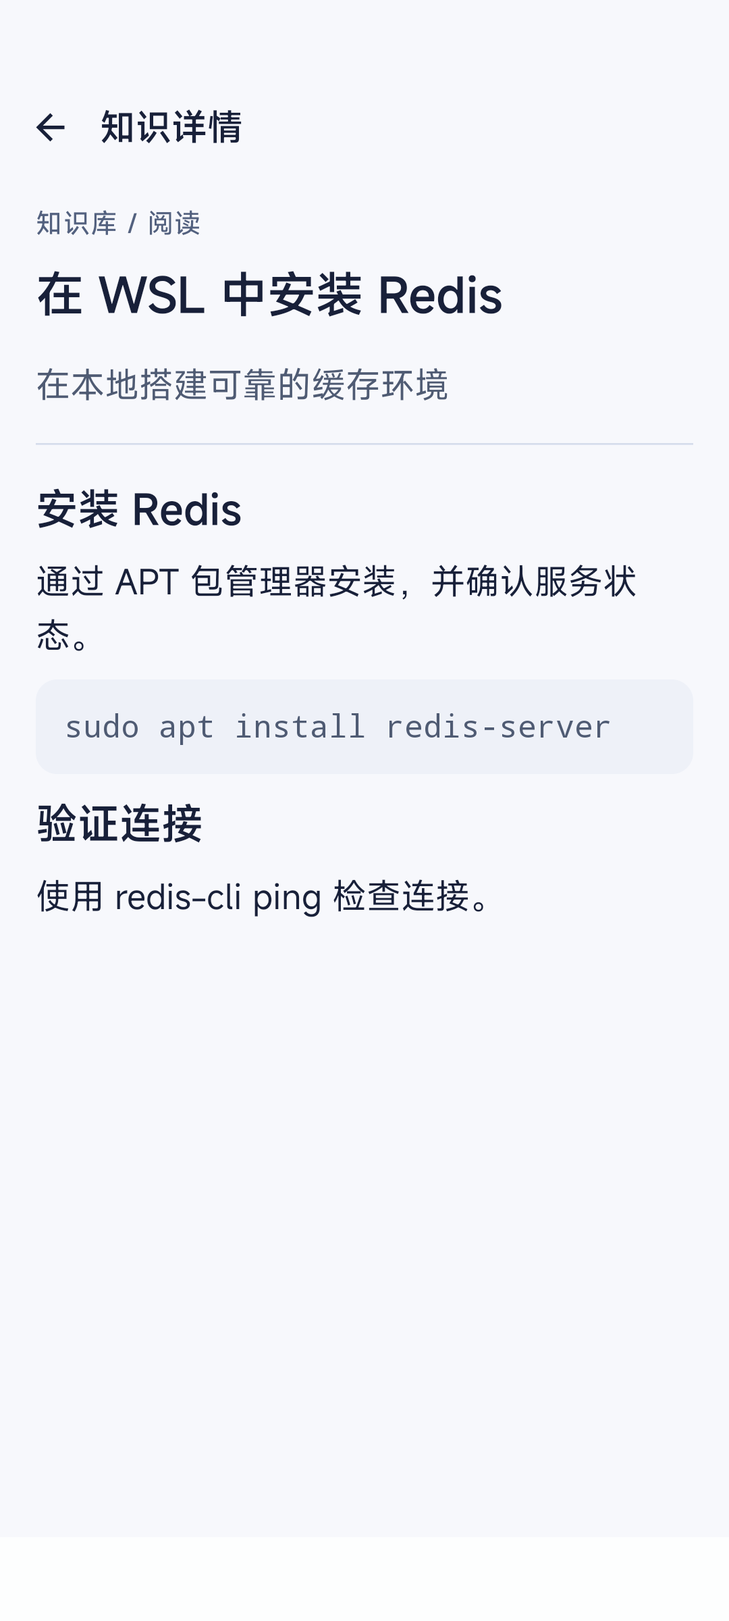
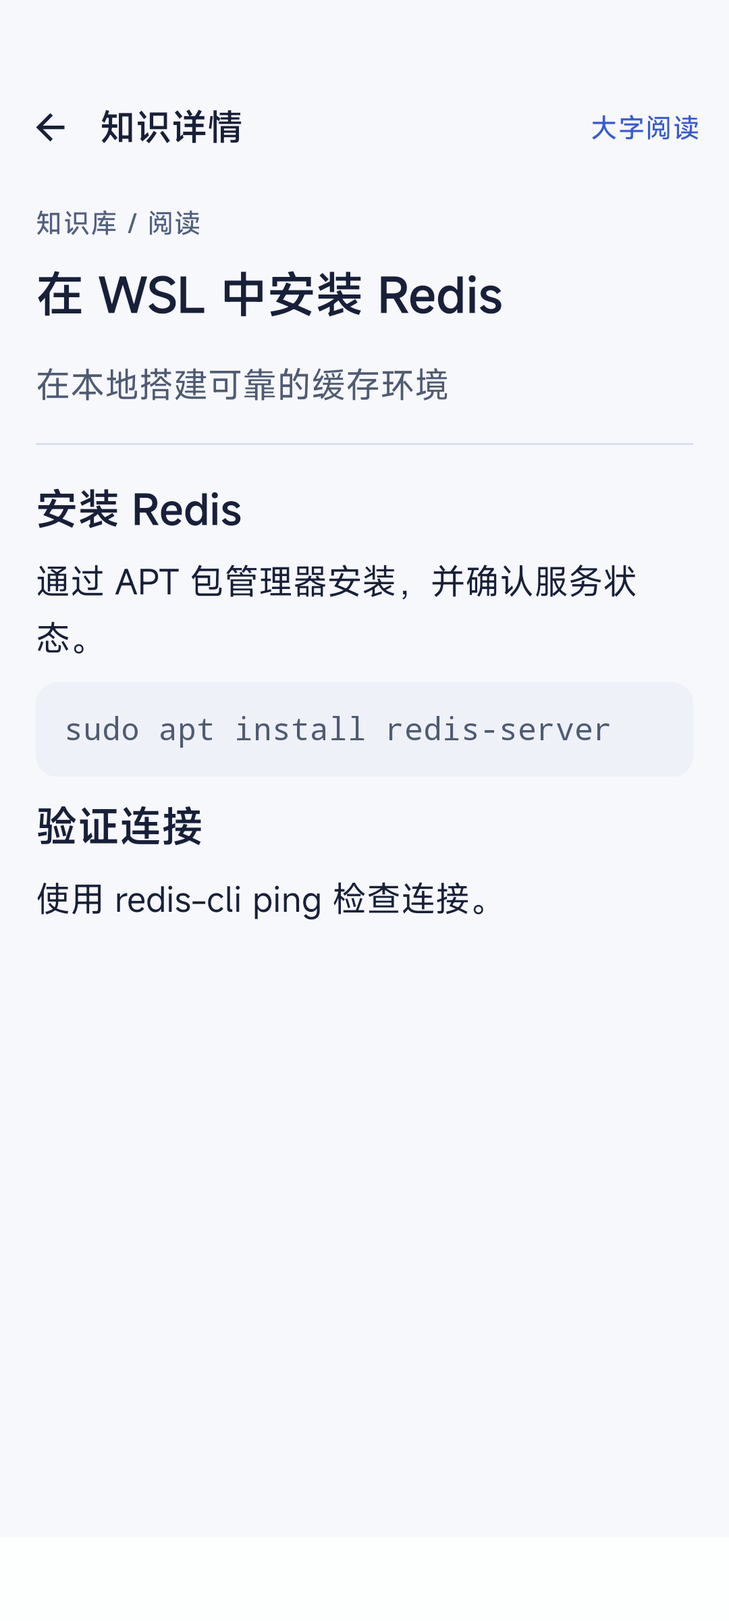
fix:修复了Android端的一些问题

diff --git a/android/artifacts/ux-review/index.html b/android/artifacts/ux-review/index.html
@@ -1,0 +1,1 @@
+<!doctype html><html lang="zh-CN"><meta charset="utf-8"><meta name="viewport" content="width=device-width,initial-scale=1"><title>SecondBrain · Android 体验验收</title><style>*{box-sizing:border-box}body{margin:0;background:#f7f8fc;color:#182039;font-family:system-ui,"Microsoft YaHei",sans-serif}main{max-width:1320px;margin:auto;padding:48px 24px}header{border-bottom:1px solid #d5dceb;padding-bottom:28px;margin-bottom:32px}small{color:#395bce;letter-spacing:.12em}h1{font-size:36px;margin:12px 0;font-weight:650}p{line-height:1.8;color:#53617f}.grid{display:grid;grid-template-columns:repeat(3,minmax(0,1fr));gap:32px}figure{margin:0}img{width:100%;height:auto;border:1px solid #d5dceb;border-radius:16px;background:white}h2{font-size:18px;margin:12px 0 4px}figcaption{color:#53617f;font-size:14px;line-height:1.6;margin-bottom:20px}a{color:#395bce}footer{margin-top:40px;border-top:1px solid #d5dceb;padding-top:24px}@media(max-width:760px){.grid{grid-template-columns:1fr 1fr}main{padding:24px 16px}h1{font-size:28px}}@media(max-width:460px){.grid{grid-template-columns:1fr}}</style><main><header><small>SECONDBRAIN / ANDROID</small><h1>让知识更容易阅读与使用</h1><p>原生 Android 实机截图。首页与知识列表为实际应用数据，其余截图来自隔离设备测试；不会向真实社区发送测试回答。</p></header><section class="grid"><figure><a href="today.png"><img src="today.png" alt="今日页面，顶部可切换工作区，提供复习入口"></a><h2>今日 · 明确的学习入口</h2><figcaption>当前空间始终可见，从指定卡片开始复习。</figcaption></figure><figure><a href="knowledge-list.png"><img src="knowledge-list.png" alt="知识列表与搜索"></a><h2>知识库 · 查得到，也读得完</h2><figcaption>关键词搜索、真实总数、分页与详情阅读。</figcaption></figure><figure><a href="knowledge-detail.png"><img src="knowledge-detail.png" alt="知识详情正文和代码块"></a><h2>阅读 · 正文优先</h2><figcaption>标题、摘要、正文、代码块分层，支持大字阅读。</figcaption></figure><figure><a href="share-detail.png"><img src="share-detail.png" alt="分享详情包含作者、正文和讨论"></a><h2>分享 · 内容与讨论衔接</h2><figcaption>作者、分享理由、知识正文与轻量互动。</figcaption></figure><figure><a href="question-published.png"><img src="question-published.png" alt="发布成功后的回答详情"></a><h2>问答 · 发布有明确结果</h2><figcaption>失败保留输入，成功原地显示，重新进入仍可查看。</figcaption></figure><figure><a href="review-feedback.png"><img src="review-feedback.png" alt="提交后显示答案解析"></a><h2>复习 · 先作答，再理解</h2><figcaption>提交后出现判题与解析，主动进入下一题。</figcaption></figure></section><footer><a href="device-tests.txt">设备测试原始输出</a><p>设计依据与验证范围记录在 docs/requirements/prd-native-android-app.md。Debug 包沿用项目现有局域网接口配置。</p></footer></main></html>

diff --git a/android/app/src/main/java/com/secondbrain/android/ui/QuestionScreen.kt b/android/app/src/main/java/com/secondbrain/android/ui/QuestionScreen.kt
@@ -8,6 +8,7 @@ import androidx.compose.material3.*
 import androidx.compose.runtime.*
 import androidx.compose.ui.Modifier
 import androidx.compose.ui.platform.LocalSoftwareKeyboardController
+import androidx.compose.ui.platform.testTag
 import androidx.compose.ui.unit.dp
 
 @Composable
@@ -20,7 +21,7 @@ internal fun QuestionScreen(id: Long, onBack: () -> Unit, viewModel: QuestionVie
         if (state.published) { keyboard?.hide(); onPublished() }
     }
     ReadingScaffold("问答 · 讨论详情", onBack) { padding ->
-        LazyColumn(Modifier.fillMaxSize().padding(padding).imePadding(), state = listState,
+        LazyColumn(Modifier.fillMaxSize().padding(padding).imePadding().testTag("question-content"), state = listState,
             contentPadding = PaddingValues(20.dp, 12.dp, 20.dp, 32.dp), verticalArrangement = Arrangement.spacedBy(20.dp)) {
             if (state.loading) item { LoadingContent("正在读取问题…") }
             state.question?.let { question ->
@@ -50,18 +51,18 @@ internal fun QuestionScreen(id: Long, onBack: () -> Unit, viewModel: QuestionVie
                         placeholder = { Text("写下思路、解释或具体例子…") }, minLines = 4, maxLines = 10,
                         supportingText = { Text("${state.draft.trim().length} / 10000 · 至少 10 个字") },
                         modifier = Modifier.fillMaxWidth().padding(top = 12.dp))
-                    Button(onClick = viewModel::submit, enabled = !state.submitting && !state.loading && state.draft.trim().length in 10..10000,
+                    state.error?.let { Text(it, color = MaterialTheme.colorScheme.error, modifier = Modifier.padding(bottom = 12.dp)) }
+                    Button(onClick = { keyboard?.hide(); viewModel.submit() }, enabled = !state.submitting && !state.loading && state.draft.trim().length in 10..10000,
                         modifier = Modifier.fillMaxWidth().heightIn(min = 48.dp)) {
                         Text(if (state.submitting) "正在发布…" else "发布回答")
                     }
                     if (state.published) Text("回答已发布，可在上方查看", color = MaterialTheme.colorScheme.primary, modifier = Modifier.padding(top = 12.dp))
                 }
             }
-            state.error?.let { message -> item {
-                Text(message, color = MaterialTheme.colorScheme.error)
-                if (state.question == null) OutlinedButton(onClick = { viewModel.load(id) }) { Text("重新加载") }
-                else Text("内容已保留。发布遇到网络中断时，可先重新进入确认是否已发布。", style = MaterialTheme.typography.bodyMedium)
+            if (state.question == null) state.error?.let { message -> item {
+                RetryContent(message) { viewModel.load(id) }
             } }
+
         }
     }
 }

diff --git a/android/app/src/androidTest/java/com/secondbrain/android/ui/MobileFlowsTest.kt b/android/app/src/androidTest/java/com/secondbrain/android/ui/MobileFlowsTest.kt
@@ -206,15 +206,22 @@ class MobileFlowsTest {
         } }
         compose.onNode(hasSetTextAction()).performScrollTo().performTextInput("先明确共享资源的边界，再选择锁的粒度。")
         compose.onNodeWithText("发布回答").performScrollTo().performClick()
-        compose.onNodeWithText("连接失败，草稿已保留").performScrollTo().assertIsDisplayed()
+        compose.waitUntil(5_000) { vm.state.value.error != null }
+        assertEquals(1, attempts)
+        compose.onNodeWithTag("question-content").performScrollToNode(hasText("连接失败，草稿已保留"))
+        compose.onNodeWithText("连接失败，草稿已保留").assertIsDisplayed()
         assertTrue(vm.state.value.draft.isNotBlank())
         compose.onNodeWithText("发布回答").performScrollTo().performClick()
-        compose.onNodeWithText("回答已发布，可在上方查看").performScrollTo().assertIsDisplayed()
-        compose.onNodeWithText("先明确共享资源的边界，再选择锁的粒度。").performScrollTo().assertIsDisplayed()
+        compose.waitUntil(5_000) { vm.state.value.published }
+        compose.onNodeWithTag("question-content").performScrollToNode(hasText("回答已发布，可在上方查看"))
+        compose.onNodeWithText("回答已发布，可在上方查看").assertIsDisplayed()
+        compose.onNodeWithTag("question-content").performScrollToNode(hasText("先明确共享资源的边界，再选择锁的粒度。"))
+        compose.onNodeWithText("先明确共享资源的边界，再选择锁的粒度。").assertIsDisplayed()
         snapshot("question-published")
         compose.onNodeWithContentDescription("返回").performClick()
         compose.onNodeWithText("重新进入").performClick()
-        compose.onNodeWithText("先明确共享资源的边界，再选择锁的粒度。").performScrollTo().assertIsDisplayed()
+        compose.onNodeWithTag("question-content").performScrollToNode(hasText("先明确共享资源的边界，再选择锁的粒度。"))
+        compose.onNodeWithText("先明确共享资源的边界，再选择锁的粒度。").assertIsDisplayed()
         assertEquals(2, attempts)
         assertEquals(1, vm.state.value.question?.answerCount)
     }

diff --git a/docs/requirements/prd-native-android-app.md b/docs/requirements/prd-native-android-app.md
@@ -1,0 +1,168 @@
+# AI-SecondBrain 原生 Android 应用
+
+## 状态
+
+进行中，首个交付是独立的 Kotlin / Jetpack Compose 工程，位于 `android/`。它与现有 uni-app 共用后端、账号和工作区数据，但不共用 UI 代码。
+
+## 已确认范围
+
+- Android 8.0+，Material 3、固定墨绿/纸张白/铜棕品牌主题，提供独立深色方案。
+- 底部四栏：今日、知识、社区、我的；全局采集入口。
+- 登录、工作区、知识、RAG、复习、广场、问答、社区资料与成长数据只读取和写入既有服务端 API，不制造演示数据。
+- 采集使用本地 CameraX / 相册与 ML Kit 中文、拉丁 OCR。只有用户编辑、选择工作区并确认后，才调用 `POST /knowledge`；图片不会自动上传或自动入库。
+- 本地仅保留可恢复草稿、最近知识摘要和未提交复习答案。当前登录态保存在 DataStore；客户端不保存用户 API Key。发布前应将令牌迁移至 Android Keystore 包装的安全存储。
+
+## 当前实现
+
+| 能力 | 状态 |
+| --- | --- |
+| Gradle / Compose / Material 3 工程 | 已建立并通过 Kotlin 编译 |
+| 应用 ID、minSdk 26、Debug API 地址 | 已建立 |
+| Retrofit 接口契约（认证、工作区、知识） | 已建立 |
+| 真实登录、认证与工作区请求头基础设施 | 已建立 |
+| Material 3 主题、登录和四栏导航壳 | 已建立 |
+| 原生 UI 视觉重构 | 第三轮：墨绿与中性灰白、轻边界列表、两行标题、原生返回与安全区、知识/分享阅读布局、答题反馈分阶段呈现 |
+| 本地 OCR 草稿、恢复页与 Room 基础设施 | 已建立 |
+| CameraX 拍摄、相册 OCR 与显式确认入库 | 已建立 |
+| 登录失效处理与真实社区详情 | 已建立；广场列表的可空评论/标签/回答字段按空集合处理，不再因服务端 `null` 导致整页失败 |
+| RAG 流式问答、今日复习、社区浏览与提醒设置 | 已建立 |
+| 通知权限、启动/工作区恢复与重启后提醒校准 | 已建立 |
+| Debug APK、单元测试与 Lint | 本轮验证记录见下文；不再沿用早期测试数量 |
+| 真机安装与相机/通知回归 | 待发布前在 Android 8 与 Android 13+ 实机完成 |
+
+## 本地开发
+
+1. 使用 Android Studio 打开 `android/`。
+2. 当前 Debug 真机地址为 `http://172.25.82.104:8080/api/`；手机与服务端电脑须位于同一局域网。模拟器需将 Debug 地址改为 `http://10.0.2.2:8080/api/`。
+3. 服务端实际部署时必须使用 HTTPS；Release 不应包含 HTTP 地址。
+
+## Figma 交付记录
+
+设计应写入用户提供的 Figma 文件，包含 Foundations 与 Core flows 两个页面，按 360×800 和 412×915 验证。当前连接账号可读取该文件，但 Figma Starter 的 MCP 写入额度已耗尽，首次写入被服务端原子拒绝，未产生半成品；Compose 主题已按同一 Material 3 规范开始实现，额度恢复后再回填设计稿。
+
+
+## 2026-09-05 移动端缺陷修复与体验调整
+
+### 背景和范围
+
+用户提供的五张截图来自 `android/` 原生 Compose 客户端，而非 `mobile/` 中的 uni-app。本轮修改复用既有后端接口，不修改数据库、Java 服务和 Web 客户端。Android 目录在开始任务时已整体处于 Git 未跟踪状态；本轮在现有实现上修改，未覆盖其他文档或工作区改动。
+
+### 缺陷与实现
+
+| 问题 | 根因 | 本轮实现 |
+| --- | --- | --- |
+| 知识详情无法点击 | 列表未传入点击回调，Card 进入禁用状态 | 知识行接入详情导航和 `GET /knowledge/{id}`；展示标题、摘要、正文、加载、失败重试与返回 |
+| 知识列表发灰、标题截断 | 禁用卡片配色与固定宽度计算，标题只显示一行 | 正常内容表面、弹性文字区域、两行标题与省略号；统计注明“已加载”，不把分页数量写成全库总数 |
+| 分享页只有推荐语、两排大按钮 | 未读取 `knowledgeNodes`，非滚动 Column，操作不更新详情 | 作者和时间、推荐语、关联正文、评论分层；可滚动阅读；点赞/收藏根据服务返回的 Boolean 更新数量和状态，重复点击锁定、失败反馈 |
+| 复习提前泄露答案 | `question::substring` 单参数截取了答案标记之后的文本 | 独立题干解析器截取答案标记之前的部分；兼容中英文选项符号、多行选项，不把解析中的 A/B 当成选项 |
+| 复习提交后直接跳题 | ViewModel 成功后立即增加 position | 选择/输入 → 提交 → 对错、正确答案与解析 → 用户点击下一题；失败保留输入；重复提交保护；记录实际答题秒数 |
+| 只有解析的异常题卡 | 原逻辑把空题干回退为原始答案 | 不展示原始答案；提示缺少题干，允许本地跳过，不发送错误答题记录 |
+| 工作区切换没有反馈或页面仍显示旧内容 | 仅保存 token；已存在的 ViewModel 不观察会话变化 | 原子保存 token 与空间 ID；知识、今日复习观察会话变化并取消旧读取；界面显示当前空间、切换中、成功或失败；失败保留旧空间 |
+| 无工作区时个人入口消失 | 空列表状态隐藏了整个个人页内容 | 学习管理与个人空间始终展示，协作列表独立显示加载、空状态和失败重试 |
+| 空社区无法切换标签 | 标签栏放在成功列表内容内部 | 标签栏独立于列表加载状态，两栏使用弹性宽度 |
+| 二级页顶部侵入状态栏、背景泛紫 | 无统一安全区和背景 Surface | 登录后的根表面应用安全区和品牌背景，阅读/复习页使用固定 TopAppBar，接入系统返回 |
+
+### 视觉约定
+
+沿用现有移动端“内容优先”的设计方向：墨绿色强调，灰白页面底色，白色内容表面。列表圆角收紧到 14dp，减少阴影和整块浅绿背景。标题、正文、辅助信息分别使用主题排版层级；中文跟随系统字体。新阅读页支持正文选择复制、基础 Markdown 标题与代码块，代码不执行 HTML/脚本；完整 Markdown 图片、表格和公式渲染尚未实现。
+
+### 测试与交付
+
+- 构建命令：`android/gradlew.bat :app:testDebugUnitTest :app:assembleDebug :app:lintDebug --offline`。
+- 第一轮单元测试：10 项通过，覆盖题干/选项与解析隔离、异常题卡、中文标点、多行选项、接口失败码、判题字段和分享正文反序列化。
+- 补充状态测试 3 项通过：重复提交、提交失败后的输入保留和重试、个人/协作空间切换后已加载知识和复习刷新。题干中“正确答案”字样与加粗答案标签的区分测试也已通过，最终共 14 项全部通过（0 failures，0 errors）。
+- Lint：0 errors，2 项既有提示（targetSdk 35、Room 使用 kapt）。
+- Android 界面测试包已编译，包含 5 项隔离数据测试：复习分阶段反馈、失败重试、知识详情失败恢复、分享正文/交互、工作区会话刷新。
+- 连接的 Android 手机已成功更新 Debug APK（`install -r`，保留应用数据）。独立测试包安装被手机系统拒绝：`INSTALL_FAILED_USER_RESTRICTED: Install canceled by user`。因此上述 5 项设备测试未执行，未产生实机回归截图。
+- APK：`android/app/build/outputs/apk/debug/app-debug.apk`。沿用现有 Debug 局域网 API 地址，不属于正式发布包。
+
+### 待设备验收
+
+1. 知识列表点击任意条目进入完整详情，返回仍在知识页；断网后有明确失败提示和重试入口。
+2. 分享长正文和评论可滚动到底；点赞/收藏状态与数量变化一致，失败不伪造成功。
+3. 复习首屏只有题干/选项；提交后显示判题和解析并等待下一题；失败保留输入。
+4. 个人 → 协作 → 个人切换，当前标记、知识列表和今日复习与空间一致；快速重复点击不并发切换。
+5. 小屏、横屏、大字号和深色模式下复核触控区域、文字对比度、状态栏与底部安全区。此轮未完成这些设备显示模式的实际验收，不视为已通过。
+
+
+## 2026-09-05 问答社区切换闪退修复
+
+### 原因
+
+手机崩溃日志在 16:04 和 16:05 记录到 `ClassCastException: SquarePost cannot be cast to CommunityQuestion`，堆栈位于 `CommunityScreen` 的 LazyColumn 条目 key 索引回调。原界面将广场和问答状态合并为一个泛型列表，延迟执行的列表回调再次读取可变标签状态，并对旧列表做未经检查的强制转换，切换标签时发生类型错配。
+
+### 修改
+
+- 两个标签分别传入明确类型的 `ContentScreen`，移除 `UNCHECKED_CAST` 与列表强制转换。
+- 每轮组合固定标签快照，使用 Compose `key` 隔离两个列表的状态，避免沿用另一种列表的条目索引。
+- 条目 key 增加 `post-` / `question-` 前缀，区分可能拥有相同数值 ID 的分享和问题。
+- 抽出可直接测试的 `CommunityContent`，不改动既有接口和业务数据。
+- 新增界面回归用例：两个非空列表且 ID 相同时往返切换 10 次并打开条目；问答加载中、空列表、失败与重试恢复时仍可切换标签。
+
+### 验证
+
+- Debug APK 与 Android 界面测试包构建通过；14 项 JVM 单元测试全部通过；Lint 0 errors，保留 2 项既有 warnings。
+- 修复版已通过 `install -r` 更新到连接的手机，保留应用数据。
+- 用户要求继续后，在手机实际应用中完成只读浏览验证：社区进入成功；问答问题列表正常显示；知识广场与问答社区连续往返切换 5 轮，每次均显示对应列表。
+- 现有问题详情打开成功，系统返回后回到社区页面；全程进程 PID 为 32371，没有发生进程重启，该进程的 AndroidRuntime 崩溃日志为空。
+- 上述验证未发布回答、点赞或修改知识。新增的非空同 ID 列表与加载/空/失败状态界面用例已编译，但独立测试包仍未安装执行；不把编译成功等同于这些模拟场景全部通过。
+- 过程中曾因自动审批服务提示额度不足中断；用户要求继续后审批恢复，已完成本次真实手机浏览回归。
+
+
+## 2026-09-05 Android 体验重设计与问答闭环
+
+本轮范围：原生 Android 应用。优先修复回答提交、详情返回状态、空响应处理与知识列表检索，再统一视觉和阅读层级。
+
+### 设计决策（实现前）
+
+参考 Notion 的 [移动工作区入口](https://www.notion.com/help/workspaces-on-mobile)、Readwise 的 [专注阅读](https://docs.readwise.io/reader/guides/workflows/longform-reading)、Google 的 [Material 层级研究](https://design.google/library/expressive-material-design-google-research)。采用它们的导航与内容优先原则，不复制品牌资产。
+
+色彩：正文 #182039，主操作 #395BCE，背景 #F7F8FC，阅读面 #FFFFFF，次级文字 #65708B，浅色强调 #D6E3FF。错误与答题反馈使用独立语义颜色。系统无衬线适配中文与系统字体缩放；页面标题 26sp，条目标题 17sp，正文 16sp/26sp，元信息 12sp。
+
+布局从“大口号 + 重复圆角块 + 全局加号”改为紧凑工作区工具栏、可搜索的知识目录、具备作者与回答数的社区列表、可选择正文的阅读页。招牌元素是学习页的蓝色复习入口与目录式列表，学习任务成为视觉重点。圆角只用于分组和操作面；内容本身靠间距与分隔线建立层级。
+
+```text
+原：大标题 / 口号 / 大摘要卡 / 同形卡片 / 悬浮加号
+新：空间切换                知识采集
+    页面标题                刷新
+    搜索或社区标签
+    内容标题与摘要
+    作者 / 回答数 / 阅读入口
+    ────────────────────
+    固定四项导航
+阅读：返回 / 内容类别 → 作者 → 标题 → 正文 → 轻量操作 → 讨论
+问答：问题 → 回答列表 → 编辑区 → 提交状态 / 原地显示新回答
+```
+
+避免把全部页面套进同一种大卡片，也不引入无业务含义的装饰图和假统计。功能测试使用隔离接口，不向真实社区发布测试消息。
+
+
+### 本轮实现
+
+- 问答发布：纠正接口返回类型为 `CommunityAnswer`；新增独立问题状态管理，发布期间禁止重复提交，失败保留草稿，成功使用服务端返回的回答原地显示；重新进入读取服务端详情。严格按 10–10000 字校验，错误和成功均可见，不再点击发布后立即退出。
+- 社区导航：保存主标签与列表状态，详情返回仍停留在原社区标签；全屏目的地保存 ID，配置变化后可恢复阅读入口。社区提供显式刷新入口。
+- 实机发现的分享闪退：同一个列表中的关联知识和评论原来都使用数值 ID，两者 ID 相同时崩溃；改为 `shared-node-` 与 `comment-` 两类独立 key，回归样本刻意使用相同 ID。
+- 知识：增加关键词搜索、清除、真实总数、继续加载与分页重试；切换会话取消旧请求，避免前一个空间的数据回写。
+- 复习：点击今日卡片从该卡片开始，保留“选择/输入 → 提交 → 解析 → 下一题”的阶段；页面重新组合不会重载并清空答案。
+- 工作区：所有主页面顶部提供当前空间及切换面板，个人空间和协作工作区均显示选中状态、切换进度与结果。凭证保存后再刷新知识与复习。
+- 阅读与视觉：统一蓝灰浅色/深色配色，压缩主页面标题和摘要区域，移除遮挡内容的全局悬浮按钮，把采集放入工具栏；分享增加作者与讨论元信息，正文、代码块、互动和讨论分层；阅读页可切换大字号。
+- 采集：编辑区支持滚动和键盘避让；空内容不可保存；保存时拦截重复提交，失败提示在编辑区可见；识别期间禁用重复选择图片/相机操作。
+- 提醒取消：空成功响应只校验业务状态，避免服务端已经取消、本地仍误判失败。
+
+### 验证范围说明
+
+本轮设备自动化通过隔离 API 运行，不向真实社区发送测试回答；接口类型另外通过真实 Retrofit/Moshi 转换链测试。真实服务的最终发布与通知链路未写入测试数据。摄像头/OCR 识别准确度、实际通知到达、AI 流式问答，以及所有设备型号兼容性不属于本轮已通过的设备用例。正文目前支持基本标题、段落与代码块，仍不是完整 Markdown 渲染器。
+
+
+### 最终验收结果
+
+- `:app:testDebugUnitTest :app:assembleDebug :app:assembleDebugAndroidTest :app:lintDebug --offline` 全部成功。19 项 JVM 测试通过（6 项接口模型/转换、6 项题干解析、7 项状态流程），Lint 0 errors，2 项既有 warnings。
+- 在 Redmi 23117RK66C 上安装最终 Debug 主包与测试包，保留用户原有数据。8 项 Compose 设备测试全部通过，耗时 25.953 秒。包含问答失败保留草稿/重试/原地显示/重新进入、分享同 ID 正文与评论、点赞收藏、复习反馈阶段和下一题、复习失败重试、知识详情失败恢复、空间会话刷新、社区类型切换与失败恢复。
+- 设备测试首次启动被手机后台 Activity 限制阻挡，显式使用 ActivityScenario 相同的 Intent 启动测试宿主后执行。脚本 `android/scripts/run-device-tests.ps1` 保存设备输出并在测试结束结果不完整时失败；不调整系统安全权限。
+- 实机测试先后发现分享列表重复 key 闪退、问答失败提示位于键盘下方的问题，修复后完整 8 项重新执行通过。原始通过记录：`android/artifacts/ux-review/device-tests.txt`。
+- 用户启动后端后，真实个人知识库从连接失败状态通过刷新恢复，显示 267 条知识。搜索 `R` 得到 186 条，清除后恢复 267 条；手机中文输入法对自动输入英文有候选转换，因此不将该次操作描述为完整 Redis 关键词测试。Redis 关键词的状态和分页逻辑在 JVM 用例中验证。
+- 真实“在 WSL 中安装 Redis”详情打开成功，正文及安装代码可见，返回知识列表正常。
+- 真实个人 → 新思路 → 个人切换成功：个人 267 条，新思路 6 条；选中标记和数据同步更新，并已恢复原来的个人空间。
+- 真实问答列表进入既有问题，能读取服务端已有的 2 条回答；系统返回后仍显示“正在讨论”及原问题，未跳回知识广场。未向真实社区发送测试内容。
+- 截图展示：`android/artifacts/ux-review/index.html`。首页、知识列表、社区截图来自真实数据；阅读/复习/分享/发布成功截图来自隔离设备测试，页面已明确区分。
+- 最终 APK：`android/app/build/outputs/apk/debug/app-debug.apk`，仍使用项目既有局域网 Debug 服务地址，非正式发布签名包。
